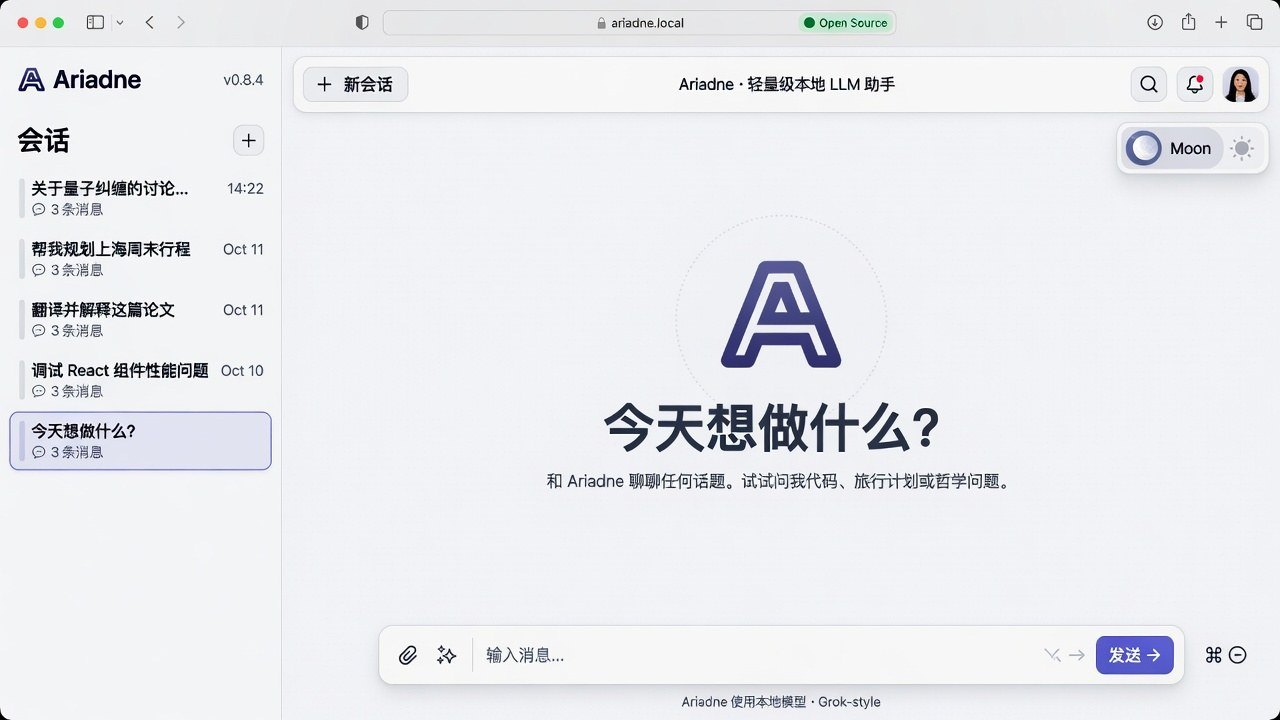
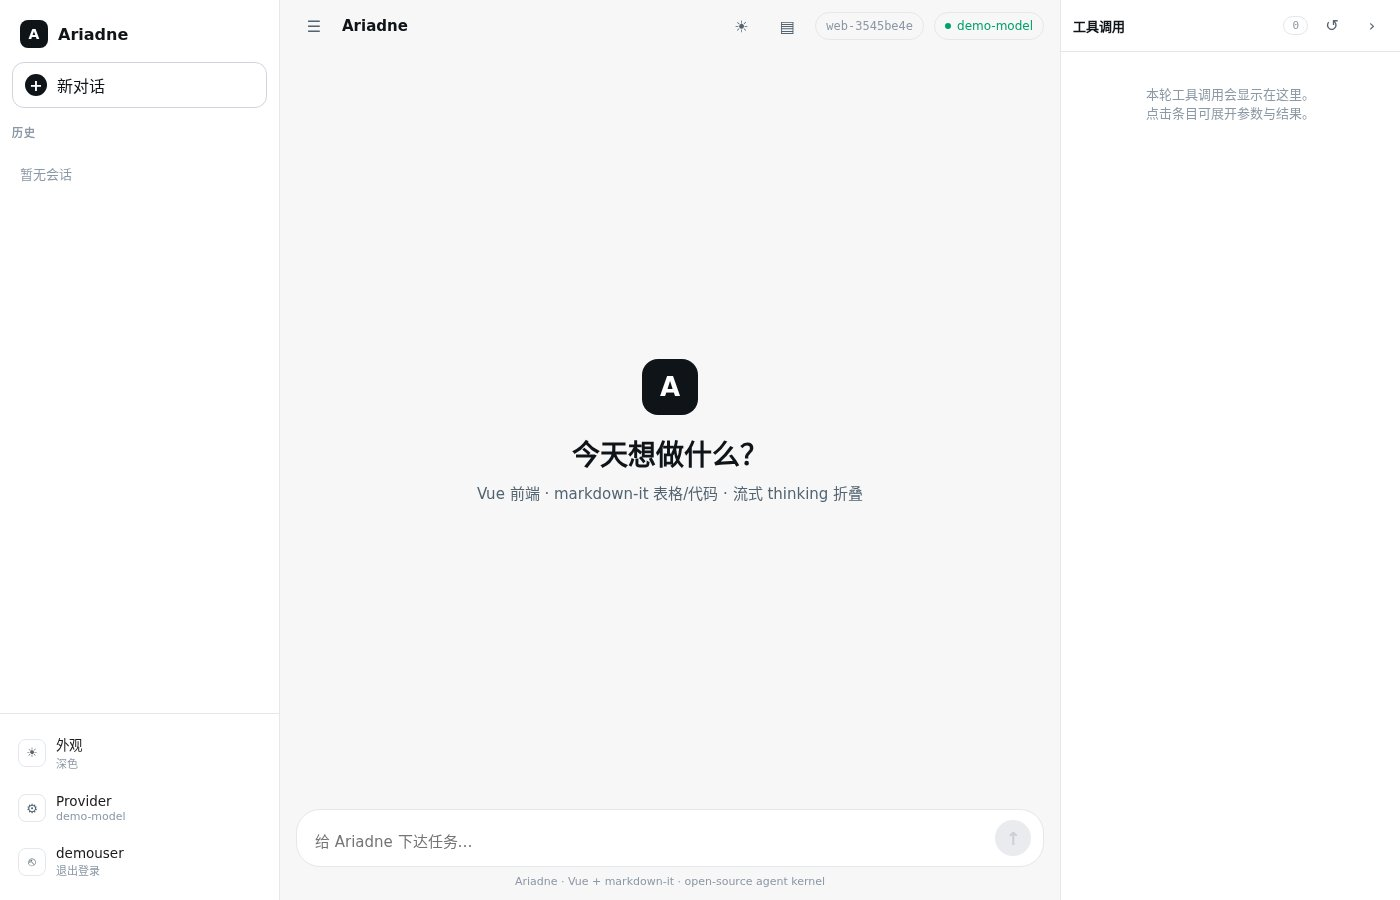
docs: align README with Vue three-column web UI
Refresh web dark/light screenshots and describe the current shell: tools panel, markdown-it tables, thinking collapse, turn stats, and frontend build path in EN + 中文 READMEs.

diff --git a/README.md b/README.md
@@ -36,7 +36,7 @@
 **Ariadne** is a callable runtime that turns one user turn into model reasoning, skill guidance, tool calls, layered memory, and optional sandboxed execution.
 
 Default human interface: a **CLI shell agent** over your project workspace (bare `ariadne` → REPL, codex-style).  
-Optional: a **Grok-style web UI** (`ariadne serve`) with sidebar history, light/dark themes, session titles, and image paste.
+Optional: a **Grok-style Vue web UI** (`ariadne serve`) — left session history, right collapsible tool panel, streaming Markdown (GFM tables), thinking collapse, turn stats.
 
 It is **not** an enterprise multi-tenant platform, connector hub, or company packaging stack.
 
@@ -52,15 +52,15 @@ Your prompt
 ## Screenshots
 
 <p align="center">
-  <img src="docs/assets/web-demo.jpg" alt="Ariadne web — dark theme, sidebar sessions, chat" width="920" />
+  <img src="docs/assets/web-demo.jpg" alt="Ariadne web — Vue UI dark: sidebar, chat, tools panel" width="920" />
 </p>
-<p align="center"><sub><b>Web (dark)</b> — left history + new chat · session topic titles · markdown stream · bottom composer · Provider / plugins / theme</sub></p>
+<p align="center"><sub><b>Web (dark)</b> — left history · main chat · <b>right tools panel</b> · bottom composer · theme / model chips</sub></p>
 
 <table>
   <tr>
     <td width="50%">
-      <img src="docs/assets/web-demo-light.jpg" alt="Ariadne web light theme" />
-      <p align="center"><sub><b>Web (light)</b> — same shell, light theme toggle (☀/☾)</sub></p>
+      <img src="docs/assets/web-demo-light.jpg" alt="Ariadne web light theme with tools panel" />
+      <p align="center"><sub><b>Web (light)</b> — same three-column shell · light theme</sub></p>
     </td>
     <td width="50%">
       <img src="docs/assets/cli-demo.jpg" alt="Ariadne CLI REPL with tools and diffs" />
@@ -80,20 +80,20 @@ Most “agent frameworks” give you either a thin chat wrapper, or a company pl
 | **Toolcall** | **One** capability registry, deferred schemas, audited loop |
 | **Memory** | Layered recall + curated facts + conversation state |
 | **Sandbox** | Pluggable execution (`local` / `docker` / `null`) |
-| **Host UX** | Terminal agent + Grok-style web UI + official plugins |
+| **Host UX** | Terminal agent + Vue web UI + official plugins |
 
 ## Features
 
 - **CLI first** — bare `ariadne` enters interactive REPL; `run` / `exec` one-shot; streaming, rich diffs, approvals
-- **Sessions** — continue / resume; **topic titles** (auto summary + manual `/title` or web rename)
+- **Sessions** — continue / resume; **topic titles** (auto after each turn + `/title` or click web top-bar title)
 - **Images** — CLI `/image` (path or clipboard); web paste / drag-drop; fails clearly if model is not multimodal (`ARIADNE_VISION`)
 - **File tools** — `sandbox_read_file` / `write` / `edit` with unified diffs
 - **Memory L0–L4** — transcript, summaries, curated facts, semantic recall, L2 conversation state
 - **Skills** — packs, hybrid search, scored selection plan (no full-index dump)
 - **Guardrails** — secret redaction in/out; injection warnings
-- **Official plugins** — GitLab / Redmine / Odoo as **user attributes** (home store or web account; secrets shown as `***`)
-- **Web UI** — sidebar history, BYOK provider modal, plugins modal, light/dark theme
-- **OpenAI-compatible models** — chat completions + tools
+- **Official plugins** — GitLab / Redmine / Odoo as **user attributes** (secrets shown as `***`)
+- **Web UI (Vue 3)** — three-column Grok-style shell: history · chat · tools; markdown-it GFM tables; thinking collapse; turn stats
+- **OpenAI-compatible models** — chat completions + tools + optional reasoning stream
 
 ## Hosts & UI
 
@@ -108,20 +108,31 @@ ariadne exec "…"        # alias of run
 
 Useful in-REPL commands: `/help`, `/title`, `/image`, `/resume`, `/status`, `/mode`, `/exit`.
 
-### Web UI
+### Web UI (Vue)
 
 ```bash
 ariadne serve --host 127.0.0.1 --port 8420
 # → http://127.0.0.1:8420
 ```
 
-| Area | Behavior (matches current UI) |
+Three-column shell (matches current product UI):
+
+| Area | Behavior |
 | --- | --- |
-| **Sidebar** | New chat · history with **topic titles** · Provider / plugins / appearance / logout |
-| **Main** | Session title in top bar · model chip · markdown streaming · tool pills |
-| **Composer** | Bottom floating input · Enter send · paste/drop images |
-| **Theme** | Light / dark toggle (localStorage + system default) |
-| **Sessions** | Switch reloads history; double-click row or click title to rename; auto topic summary |
+| **Left sidebar** | New chat · session history with **topic titles** · appearance / Provider / logout |
+| **Main column** | Top bar (session title · model chip · tools toggle) · chat · bottom composer |
+| **Right tools panel** | Collapsible · per-call args/output/errors · **info** row after turn: duration · tokens · tool count |
+| **Markdown** | **markdown-it** + GFM tables, code highlight (not a hand-rolled subset) |
+| **Thinking** | Streams reasoning when the model provides it; **auto-collapses** when the answer starts (expandable) |
+| **Theme** | Light / dark (localStorage + system default) |
+| **Sessions** | Switch reloads history; click top title to rename or force re-summarize |
+
+Frontend source: [`frontend/`](frontend/) (Vite). Production assets are built into `src/ariadne/web/static/dist/` and served by FastAPI.
+
+```bash
+cd frontend && npm ci && npm run build:fast   # refresh static/dist after UI changes
+cd frontend && npm run dev                   # hot reload; proxies /api → :8420
+```
 
 ## Quick start
 
@@ -225,6 +236,7 @@ See [docs/PUBLIC_API.md](docs/PUBLIC_API.md).
 | [README.zh-CN.md](README.zh-CN.md) | 中文介绍 |
 | [docs/USAGE_CLI.md](docs/USAGE_CLI.md) · [docs/zh/USAGE_CLI.md](docs/zh/USAGE_CLI.md) | Host usage |
 | [docs/design/alignment-skills-toolcall-memory.md](docs/design/alignment-skills-toolcall-memory.md) | Design alignment notes |
+| [docs/design/web-vue-frontend.md](docs/design/web-vue-frontend.md) | Vue web UI + markdown-it stack |
 | [docs/VISION.md](docs/VISION.md) · [ARCHITECTURE.md](docs/ARCHITECTURE.md) · [PUBLIC_API.md](docs/PUBLIC_API.md) | Design core |
 | [docs/SKILLS.md](docs/SKILLS.md) · [TOOLCALL.md](docs/TOOLCALL.md) · [MEMORY.md](docs/MEMORY.md) · [SANDBOX.md](docs/SANDBOX.md) | Subsystems |
 | [docs/ROADMAP.md](docs/ROADMAP.md) | Delivery checklist |
@@ -241,12 +253,15 @@ Official optional plugins (GitLab / Redmine / Odoo) are user-configured integrat
 ## Project layout
 
 ```text
-src/ariadne/          kernel, memory, tools, skills, sandbox, CLI, web
+src/ariadne/          kernel, memory, tools, skills, sandbox, CLI, web API
+src/ariadne/web/static/dist/   Vue production build (served by ariadne serve)
+frontend/             Vue 3 + Vite web UI source
 skills/builtin/       example skill packs
 tests/                offline pytest suite
 docs/                 design (normative EN) + usage
 docs/zh/              Chinese user docs
 docs/assets/          README images (hero, CLI, web dark/light)
+docs/design/web-vue-frontend.md   web UI / markdown stack notes
 scripts/              llm_smoke.py, verify_web.py
 ```
 

diff --git a/README.zh-CN.md b/README.zh-CN.md
@@ -36,7 +36,7 @@
 **Ariadne** 是一个可调用的运行时：把一次用户 turn 变成模型推理、技能引导、工具调用、分层记忆，以及可选的沙箱执行。
 
 默认人机界面：面向项目工作区的 **CLI 终端 Agent**（直接运行 `ariadne` 进入 REPL，对齐 codex）。  
-可选：**Grok 风格 Web UI**（`ariadne serve`）——侧栏历史、深浅色主题、会话标题、图片粘贴。
+可选：**Grok 风格 Vue Web UI**（`ariadne serve`）——左侧会话历史、右侧可折叠工具面板、流式 Markdown（GFM 表格）、thinking 折叠、回合耗时/token 统计。
 
 它**不是**企业多租户平台、连接器中枢或公司打包栈。
 
@@ -52,15 +52,15 @@
 ## 截图
 
 <p align="center">
-  <img src="docs/assets/web-demo.jpg" alt="Ariadne Web 深色主题：侧栏会话与对话" width="920" />
+  <img src="docs/assets/web-demo.jpg" alt="Ariadne Web Vue 深色：侧栏、对话、工具面板" width="920" />
 </p>
-<p align="center"><sub><b>Web 深色</b> — 左侧历史 + 新对话 · 会话主题标题 · Markdown 流式 · 底部输入框 · Provider / 插件 / 外观</sub></p>
+<p align="center"><sub><b>Web 深色</b> — 左侧历史 · 中间对话 · <b>右侧工具面板</b> · 底部输入框 · 主题 / 模型 chip</sub></p>
 
 <table>
   <tr>
     <td width="50%">
-      <img src="docs/assets/web-demo-light.jpg" alt="Ariadne Web 浅色主题" />
-      <p align="center"><sub><b>Web 浅色</b> — 同一壳层，顶栏切换浅色/深色</sub></p>
+      <img src="docs/assets/web-demo-light.jpg" alt="Ariadne Web 浅色主题（含工具面板）" />
+      <p align="center"><sub><b>Web 浅色</b> — 同一三栏壳层 · 浅色主题</sub></p>
     </td>
     <td width="50%">
       <img src="docs/assets/cli-demo.jpg" alt="Ariadne CLI REPL" />
@@ -80,20 +80,20 @@
 | **Toolcall** | **唯一**能力注册表、延迟 schema、可审计循环 |
 | **Memory** | 分层召回 + 精选事实 + 会话状态 |
 | **Sandbox** | 可插拔执行（`local` / `docker` / `null`） |
-| **宿主体验** | 终端 Agent + Grok 风格 Web + 官方插件 |
+| **宿主体验** | 终端 Agent + Vue Web UI + 官方插件 |
 
 ## 功能特性
 
 - **CLI 优先** — 裸 `ariadne` 进交互 REPL；`run` / `exec` 单轮；流式、diff、审批
-- **会话** — continue / resume；**主题标题**（自动总结 + 手动 `/title` 或 Web 改名）
+- **会话** — continue / resume；**主题标题**（每轮结束后自动总结 + `/title` 或点击 Web 顶栏标题改名）
 - **图片** — CLI `/image`（路径或剪贴板）；Web 粘贴/拖拽；非多模态模型明确报错（`ARIADNE_VISION`）
 - **文件工具** — `sandbox_read_file` / `write` / `edit` + 统一 diff
 - **记忆 L0–L4** — transcript、摘要、精选事实、语义召回、L2 会话状态
 - **Skills** — pack、混合检索、带分数的选择计划（不倾倒全量 index）
 - **护栏** — 入站/出站 secret 脱敏；注入警告
-- **官方插件** — GitLab / Redmine / Odoo 为**用户属性**（密钥界面显示为 `***`）
-- **Web UI** — 侧栏历史、BYOK Provider 弹窗、插件弹窗、浅色/深色主题
-- **OpenAI 兼容模型** — chat completions + tools
+- **官方插件** — GitLab / Redmine / Odoo 为**用户属性**（密钥显示为 `***`）
+- **Web UI（Vue 3）** — 三栏 Grok 壳层：历史 · 对话 · 工具；markdown-it GFM 表格；thinking 折叠；回合耗时/token/tool 统计
+- **OpenAI 兼容模型** — chat completions + tools + 可选 reasoning 流
 
 ## 宿主与界面
 
@@ -108,20 +108,31 @@ ariadne exec "…"        # run 别名
 
 REPL 常用：`/help`、`/title`、`/image`、`/resume`、`/status`、`/mode`、`/exit`。
 
-### Web UI
+### Web UI（Vue）
 
 ```bash
 ariadne serve --host 127.0.0.1 --port 8420
 # → http://127.0.0.1:8420
 ```
 
-| 区域 | 与当前界面一致的行为 |
+三栏壳层（对齐当前产品界面）：
+
+| 区域 | 行为 |
 | --- | --- |
-| **侧栏** | 新对话 · 带**主题标题**的历史 · Provider / 插件 / 外观 / 退出 |
-| **主区** | 顶栏会话标题 · 模型 chip · Markdown 流式 · 工具 pill |
-| **输入框** | 底部悬浮输入 · Enter 发送 · 粘贴/拖入图片 |
-| **主题** | 浅色/深色切换（localStorage + 系统默认） |
-| **会话** | 切换加载历史；双击行或点标题改名；自动主题总结 |
+| **左侧栏** | 新对话 · 带**主题标题**的历史 · 外观 / Provider / 退出 |
+| **主栏** | 顶栏（会话标题 · 模型 chip · 工具开关）· 对话区 · 底部输入 |
+| **右侧工具面板** | 可折叠 · 单次调用参数/输出/错误 · 回合结束 **info**：耗时 · tokens · tool 次数 |
+| **Markdown** | **markdown-it** + GFM 表格、代码高亮（非手写子集） |
+| **Thinking** | 模型返回 reasoning 时流式展示；**出答后自动折叠**（可再展开） |
+| **主题** | 浅色/深色（localStorage + 系统默认） |
+| **会话** | 切换加载历史；点顶栏标题改名或强制重总结 |
+
+前端源码：[`frontend/`](frontend/)（Vite）。生产构建输出到 `src/ariadne/web/static/dist/`，由 FastAPI 托管。
+
+```bash
+cd frontend && npm ci && npm run build:fast   # UI 变更后刷新 static/dist
+cd frontend && npm run dev                   # 热更新；/api 代理到 :8420
+```
 
 ## 快速开始
 
@@ -223,6 +234,7 @@ print(result.text)
 | [README.md](README.md) | English overview |
 | [docs/zh/USAGE_CLI.md](docs/zh/USAGE_CLI.md) | 中文宿主用法 |
 | [docs/design/alignment-skills-toolcall-memory.md](docs/design/alignment-skills-toolcall-memory.md) | 设计对齐说明 |
+| [docs/design/web-vue-frontend.md](docs/design/web-vue-frontend.md) | Vue Web UI 与 markdown-it 栈 |
 | [docs/](docs/) | 英文设计规范索引 |
 
 ## 非目标
@@ -237,12 +249,15 @@ print(result.text)
 ## 仓库结构
 
 ```text
-src/ariadne/          内核、记忆、工具、技能、沙箱、CLI、Web
+src/ariadne/          内核、记忆、工具、技能、沙箱、CLI、Web API
+src/ariadne/web/static/dist/   Vue 生产构建（ariadne serve 托管）
+frontend/             Vue 3 + Vite 前端源码
 skills/builtin/       示例 skill packs
 tests/                离线 pytest
 docs/                 设计规范 + 用法
 docs/zh/              中文用户文档
 docs/assets/          README 配图（hero、CLI、Web 深/浅色）
+docs/design/web-vue-frontend.md   Web UI / Markdown 栈说明
 scripts/              llm_smoke.py、verify_web.py
 ```
 

diff --git a/docs/assets/README.md b/docs/assets/README.md
@@ -5,12 +5,22 @@ Images used by the root [README.md](../../README.md) and [README.zh-CN.md](../..
 | File | Role |
 | --- | --- |
 | `hero.jpg` | Banner / product hero |
-| `web-demo.jpg` | Web UI — dark theme (sidebar sessions, chat, composer) |
-| `web-demo-light.jpg` | Web UI — light theme |
+| `web-demo.jpg` | Web UI — **Vue** dark shell (left history · chat · **right tools panel**) |
+| `web-demo-light.jpg` | Web UI — same three-column shell, light theme |
 | `cli-demo.jpg` | CLI REPL with tools / diffs / slash commands |
 
-Prefer files under ~200 KB so GitHub renders the intro page quickly.
+Prefer files under ~250 KB so GitHub renders the intro page quickly.
 
-These screenshots are **UI mockups aligned to the current product shell**
-(sidebar history, session titles, theme toggle, bottom composer, bare CLI REPL).
-They are not live production captures of every backend feature.
+Screenshots should match the **current** product shell:
+
+- Left: new chat + session list + appearance / Provider / logout  
+- Center: top bar (title · theme · tools · session/model chips) · empty/chat · composer  
+- Right: collapsible **工具调用** panel  
+- Markdown via **markdown-it** (GFM tables, code); optional thinking collapse; turn info (duration / tokens / tools)
+
+Refresh after UI changes:
+
+```bash
+# with ariadne serve (or a temporary app) + playwright
+# then commit updated docs/assets/web-demo*.jpg
+```
